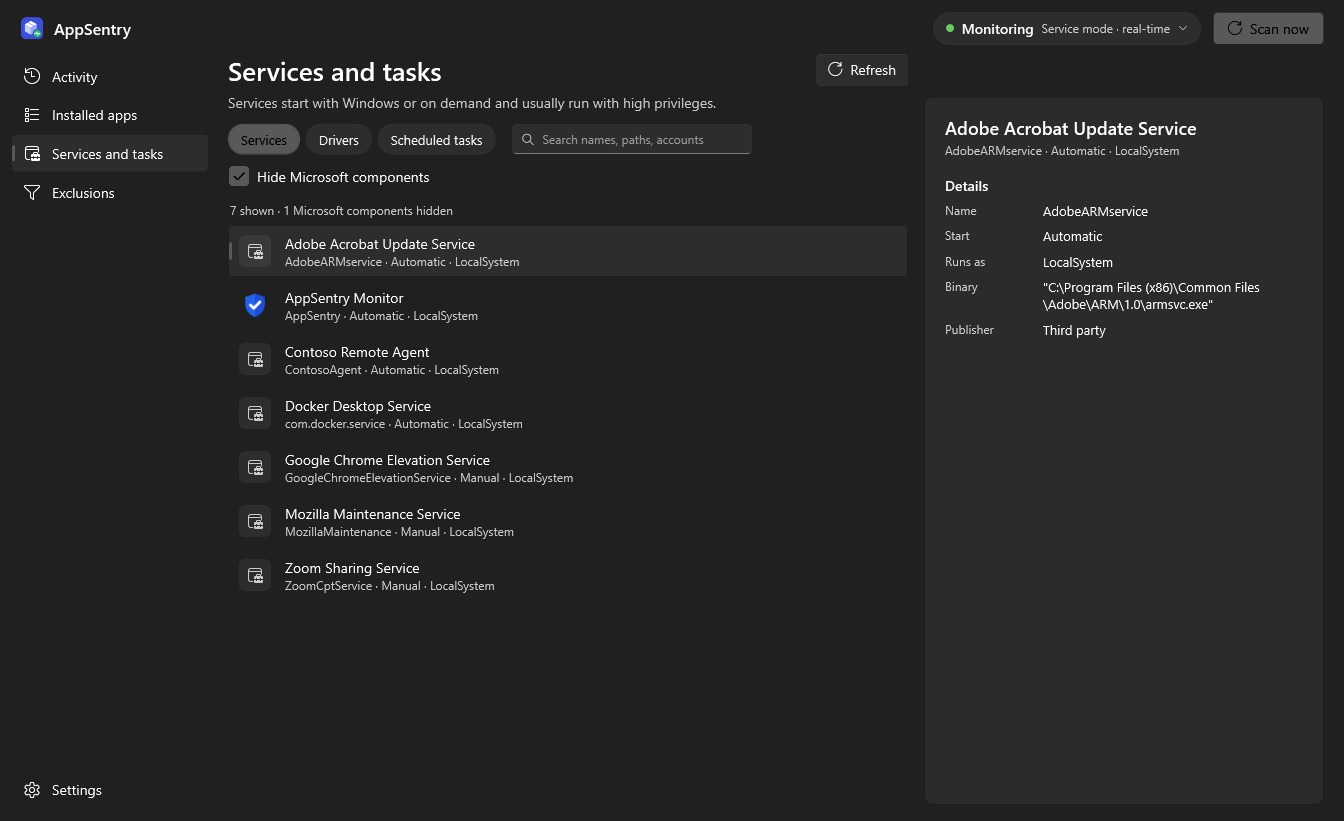
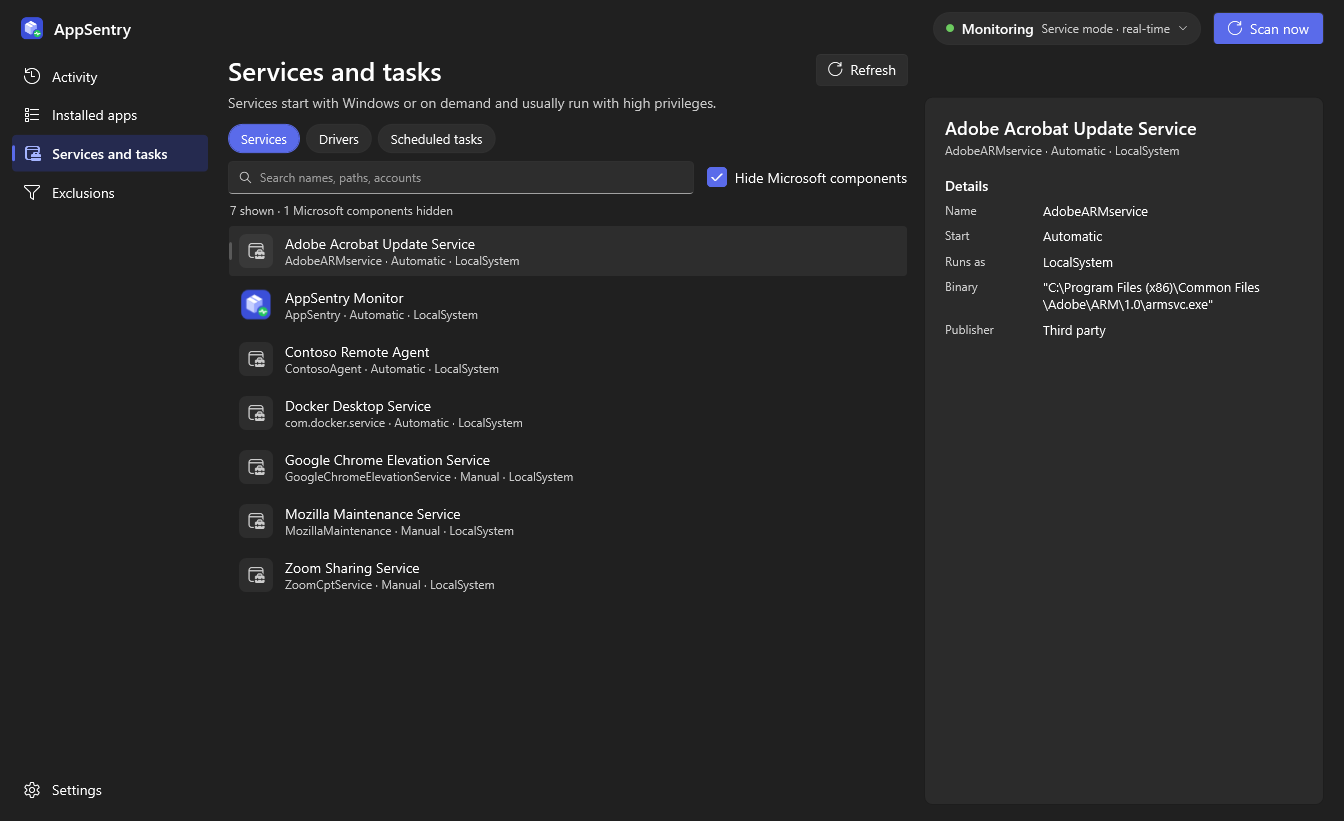
Docs: new screenshots rendered from the redesigned app, README, changelog
Screenshots are rendered by the app's own --screenshots with sample data, from a
public-only build (no edition pages).

diff --git a/CHANGELOG.md b/CHANGELOG.md
@@ -1,0 +1,24 @@
+# Changelog
+
+## 2.1.0
+
+A redesign, plus the fixes since 2.0.2.
+
+- **New look**: AppSentry's own indigo accent replaces the Windows accent color (check boxes, toggles, chips, links and
+  buttons included), tuned for light and dark. The selected page is tinted in the navigation. Apps without an icon get a
+  colored letter tile instead of an identical grey box. Search boxes have a clear button, and filters sit on two tidy
+  rows. The window opens 1360 px wide (never larger than the screen) and won't go below 1200.
+- **Settings**: an About section with the version and a *Copy support info* button (version, Windows version and scan
+  status; nothing about your apps or files).
+- **Security**: the service unpacks its native libraries into an admin-only folder instead of `C:\Windows\Temp`; the
+  pipe caps request size and connections, refuses to serve under a name another process grabbed, and throttles scans by
+  standard users; Chocolatey and Scoop files are read with DTDs off and a size cap; the installer copies only the exe
+  and won't adopt a data folder someone else created.
+- **Fixes**: the service keeps its own identity after a tray client connects; Activity no longer folds an *All users*
+  entry into a per-profile one, and counts and copies per row; the tray tooltip keeps what needs a look when an
+  edition adds long lines; the installer waits for a locked file instead of giving up; `--install-service --quiet`
+  for installers and scripts.
+
+## 2.0.2 and earlier
+
+See the [releases](https://github.com/vonkdj98/AppSentry/releases).

diff --git a/README.md b/README.md
@@ -26,7 +26,7 @@ The exe isn't code-signed yet, so Windows SmartScreen may warn the first time; c
 - Install **size** and the time the change **actually happened** are captured when it's detected
 
 ### User Interface
-- Windows 11 **Fluent** look (WPF, .NET 9 Fluent theme): Mica, rounded corners, your accent color, light/dark following Windows or chosen in Settings
+- Windows 11 **Fluent** look (WPF, .NET 9 Fluent theme): Mica, rounded corners, AppSentry's own indigo accent, light/dark following Windows or chosen in Settings; apps without an icon get a colored letter tile
 - **Activity**: changes grouped by day, with real app icons, summary cards for the chosen period, filter chips (type, source, time range, "needs a look") and search
 - **Details pane** beside the list: what happened in one sentence, who did it, the before/after values that changed, and actions — open folder, uninstall, exclude, copy details, **copy as change record** (a bulleted write-up for a change ticket)
 - **Installed apps**: every app with its icon, size bar, install date and scope filters (machine-wide, per-user, Store, Scoop), plus each app's own change history
